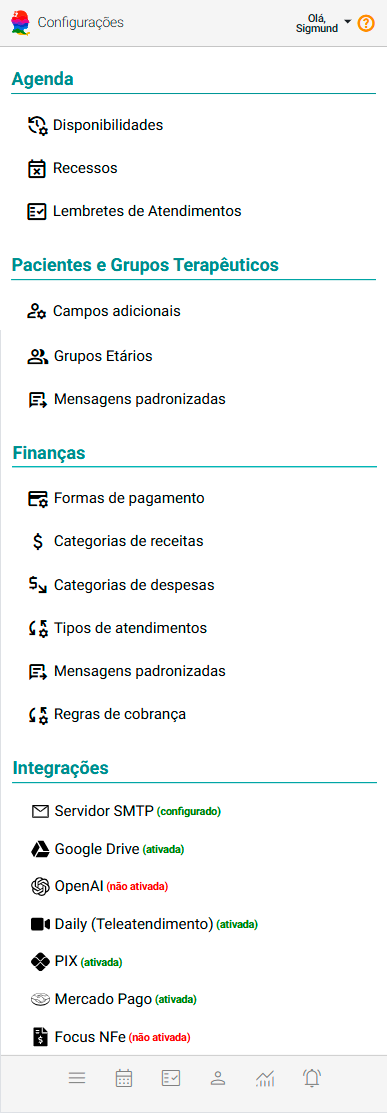
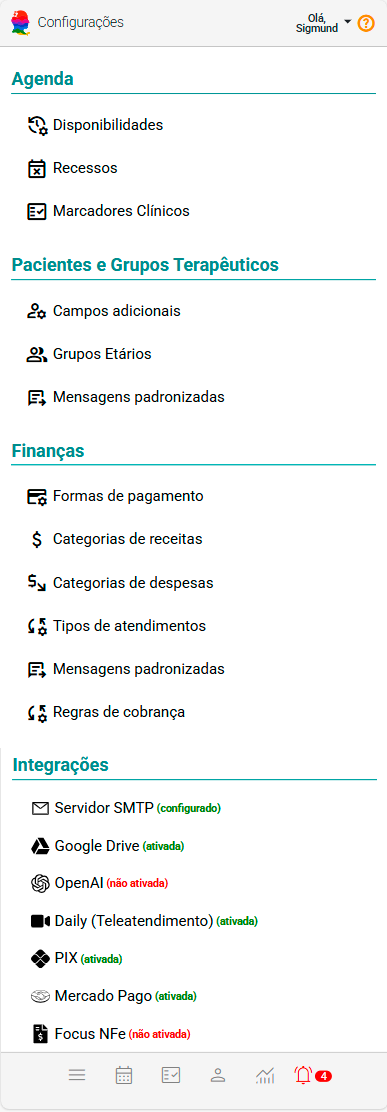
nilson

diff --git a/docs/08_funcionalidades/05-marcadores-clinicos/00-visao.md b/docs/08_funcionalidades/05-marcadores-clinicos/00-visao.md
@@ -4,67 +4,78 @@ sidebar_position: 0
 
 # Sobre Marcadores Clínicos
 
-Os **Marcadores Clínicos** no eConsult são uma ferramenta que apoia o acompanhamento do processo terapêutico ao permitir que o psicólogo **identifique, sinalize e acompanhe temas, focos, eventos e dinâmicas recorrentes** ao longo das sessões.
+Os **Marcadores Clínicos** são uma ferramenta do eConsult que permite ao psicólogo **destacar temas, focos terapêuticos e acontecimentos relevantes** que atravessam os atendimentos ao longo do tempo. Eles ajudam a **organizar a narrativa clínica**, facilitando a visualização de padrões, recorrências e pontos de trabalho que merecem atenção no processo terapêutico.
 
-Diferentemente de simples etiquetas visuais, os Marcadores Clínicos funcionam como **eixos de sentido**, facilitando a leitura longitudinal do caso e contribuindo para uma prática mais consciente, organizada e alinhada às necessidades clínicas do paciente.
-
-![Painel Marcadores Clínicos](../../../static/img/prints/marcadores-clinicos/001.png)
-
-Quando um atendimento recebe um marcador, ele passa a ser agrupado com outros atendimentos que compartilham aquele mesmo tema ou foco clínico. Isso gera uma visão clara do que está atravessando o processo terapêutico, fortalecendo a continuidade do cuidado e evitando que elementos importantes se percam na rotina.
-
-### Por que isso é útil?
-
-- Ajuda a **visualizar temas recorrentes** ao longo do processo terapêutico.
-- Facilita a **preparação para supervisões** e elaboração de relatórios clínicos.
-- Contribui para **organizar o percurso terapêutico** do paciente.
-- Apoia a **memória clínica**, evitando perda de nuances importantes entre sessões.
+Diferente de simples etiquetas, os marcadores funcionam como **eixos de sentido**: eles agrupam atendimentos que compartilham o mesmo foco clínico, tornando possível visualizar a evolução de temas ao longo das sessões.
 
 ---
 
-## Exemplo prático
+## Como funciona
 
-Imagine que, ao longo das sessões, diferentes pacientes tragam questões relacionadas a:
+No cadastro de Atendimentos, você pode **atribuir um ou mais marcadores** a uma sessão, com a opção de **adicionar uma nota** específica daquele marcador para aquele encontro.
 
-**"Luto"**
+Mais tarde, na tela *Marcadores Clínicos*, o eConsult apresenta esses atendimentos **agrupados automaticamente** por marcador.  
+Cada grupo mostra uma lista de atendimentos onde aquele tema esteve presente.
 
-Ao aplicar esse marcador aos atendimentos relevantes, o eConsult irá **agrupar esses atendimentos** automaticamente. Dessa forma, você tem uma visão transversal clara de como esse tema aparece em diferentes processos — ou ao longo do tempo com um mesmo paciente.
-
-![Exemplo de agrupamento](../../../static/img/prints/marcadores-clinicos/002.png)
-
-Essa visualização **auxilia na elaboração de hipóteses clínicas**, compreensão de evolução e tomada de decisão terapêutica.
+> Isso permite **ver o processo terapêutico como continuidade**, e não como encontros isolados.
 
 ---
 
-## *Cards* de Atendimento com Marcadores
+## Estrutura da Tela
 
-Os *cards* de atendimento exibidos nos grupos de Marcadores Clínicos oferecem uma visão objetiva dos dados essenciais da sessão, sem perder de vista o contexto clínico.
+Na tela *Marcadores Clínicos*:
 
-![Cards Marcadores](../../../static/img/prints/marcadores-clinicos/004.png)
+- Cada marcador aparece em um **item expansível**, com sua cor e o **contador de atendimentos** relacionados.
+- Ao abrir um marcador, são exibidos cartões (*cards*) com os atendimentos vinculados.
 
 Cada card apresenta:
 
-- **Data e Horário da Sessão**
-- **Paciente Vinculado**
-- **Status da Sessão** (confirmado, realizado, não realizado etc.)
-- **Valor / Valor Pago** (quando aplicável)
-- **Outros marcadores associados**
+- **Nome do paciente**
+- **Data e horário da sessão**
+- **Status da sessão** (Realizado, Confirmado, etc.)
+- **Modalidade** (Presencial ou Remoto)
+- **Valor corrigido / acordado**
+- **Marcadores associados**
+- **Observação clínica** daquele marcador naquela sessão (quando houver)
 
-Isso permite navegar rapidamente pelos atendimentos com um olhar **clínico e contextualizado**, preservando o fio narrativo do processo.
+Além disso, cada card possui um botão de ação que abre a tela de edição do atendimento, permitindo:
+
+- Revisar anotações
+- Alterar status
+- Remarcar / Desmarcar
+- Registrar pagamentos
+
+Tudo sem sair do painel.
 
 ---
 
-:::tip
-Assim como no painel principal de Atendimentos, o painel de Marcadores Clínicos permite acessar:
+## Por que usar Marcadores Clínicos?
 
-- **Anotações** da sessão  
-- **Arquivos** vinculados  
-- **Marcadores clínicos** configurados  
-- **Informes de presença e pagamentos** (no caso de grupos terapêuticos)  
+Os marcadores ajudam a:
 
-E ainda possibilita ações como **Remarcar, Desmarcar, Excluir, alterar Modalidade e Status**, além de registrar **Recebimentos**, tudo a partir de um único botão:
+| Benefício | Descrição |
+|---------|-----------|
+| **Clareza do Processo** | Facilita perceber temas que se repetem e acompanhar sua evolução. |
+| **Preparação de Supervisão** | Ajuda a reconstruir rapidamente o percurso clínico antes de supervisões. |
+| **Elaboração de Documentos** | Dá suporte para relatórios, pareceres e laudos com mais precisão e profundidade. |
+| **Memória Clínica** | Evita que elementos importantes se percam em meio à rotina. |
 
-![Botão de ações](../../../static/img/prints/buttons/btn_card-edit.png)
-:::
+---
+
+## Recomendação de uso
+
+Embora o sistema permita criar e utilizar muitos marcadores, é recomendado manter **entre 8 e 14** marcadores ativos.  
+Isso ajuda a manter a ferramenta **clínica, organizada e significativa**.
+
+> Ao configurar seus marcadores, revise e **exclua ou desative aqueles que não fazem parte da sua prática**.
+
+---
+
+## Exemplo ilustrativo *(adaptável ao seu print)*
+
+![Marcadores Clínicos](../../../static/img/prints/marcadores-clinicos-configuracao/006.png)
+
+![Marcadores Clínicos](../../../static/img/prints/marcadores-clinicos-configuracao/007.png)
 
 ---
 
@@ -73,7 +84,8 @@ E ainda possibilita ações como **Remarcar, Desmarcar, Excluir, alterar Modalid
 Os **Marcadores Clínicos**:
 
 - Não são apenas etiquetas coloridas.
-- São **ferramentas de leitura clínica**, que apoiam a continuidade, profundidade e coerência do processo terapêutico.
-- Ajudam o psicólogo a **ver o processo como narrativa**, e não como sessões isoladas.
+- São uma **ferramenta estruturante de leitura clínica**.
+- Ajudam a observar o caso como **processo contínuo**, e não como sessões pontuais.
+- Apoiam a tomada de decisão terapêutica com mais consistência e profundidade.
 
-> **Eles ajudam a nomear aquilo que atravessa o processo terapêutico — para que não se perca, para que possa ser trabalhado.**
+> **Eles nomeiam o que atravessa o processo — para que possa ser reconhecido, acompanhado e trabalhado.**

diff --git a/docs/08_funcionalidades/01-configuracoes/01_agenda/03_marcadores-clinicos.md b/docs/08_funcionalidades/01-configuracoes/01_agenda/03_marcadores-clinicos.md
@@ -2,47 +2,111 @@
 sidebar_position: 3
 ---
 
-# Lembretes de Atendimentos
+# Marcadores Clínicos
 
-Os **Lembretes de Atendimentos** funcionam como destaques que você pode atribuir aos seus atendimentos, permitindo agrupar atendimentos em atenção a informações importantes ou momentos significativos em diversos contextos. 
+Os **Marcadores Clínicos** permitem ao psicólogo **destacar atendimentos** com etiquetas coloridas que representam temas, estados emocionais, fases do processo terapêutico ou qualquer outro elemento que você considere clinicamente relevante.
 
-No eConsult, é possível configurar até 6 (seis) tipos de lembretes de atendimentos, cada um identificado por uma cor distinta para facilitar a organização e visualização.
+Eles funcionam como **indicadores visuais** na agenda e ajudam na **análise de evolução** ao longo dos atendimentos.
 
-Lembretes de atendimentos podem ser extremamente úteis para organizar atendimentos, acompanhar o progresso dos seus pacientes e garantir a eficiência na gestão das sessões.
+> **Exemplos de uso:**
+> - Emoções predominantes (ex.: Ansiedade, Raiva, Tristeza)
+> - Temas trabalhados (ex.: Luto, Autoestima, Família)
+> - Etapa terapêutica (ex.: Avaliação, Reestruturação, Fechamento)
+> - Situações importantes (ex.: Crise, Encaminhamento)
 
-## Configurar Lembretes de Atendimentos
+---
 
-1. Acesse o "Painel Configurações" e clique na opção "Lembretes de Atendimentos".
+## Acessando a Tela de Marcadores
 
-    ![Painel Configurações](../../../../static/img/prints/03_lembretes-001.png)
+1. Acesse **Configurações** no menu lateral.
+2. Clique em **Marcadores Clínicos**.
 
-2. Escolha uma cor para o lembrete que você deseja configurar.
+Você verá uma lista de marcadores que podem ser **editados, reordenados ou excluídos**.
 
-    ![Painel Configurações](../../../../static/img/prints/03_lembretes-002.png)
+![Marcadores Clínicos](../../../../static/img/prints/marcadores-clinicos-configuracao/001.png)
 
-3. Logo abaixo da cor selecionada, o sistema exibirá um campo. Insira um rótulo personalizado.
+---
 
-    ![Painel Configurações](../../../../static/img/prints/03_lembretes-003.png)
+## Alterando Marcadores Existentes
 
-4. Se preferir, personalize o rótulo do lembrete com o nome desejado.
+Para cada marcador é possível:
 
-5. Acione o botão ![Painel Configurações](../../../../static/img/prints/buttons/btn_check.png) para salvar a configuração.
+| Ação | Resultado |
+|------|-----------|
+| **Alterar nome** | Adapta o marcador ao seu referencial clínico. |
+| **Alterar cor** | Ajusta a visualização na agenda. |
+| **Reordenar** | Define prioridade visual. |
+| **Excluir** | Remove marcadores que não fazem sentido para sua prática. |
 
-:::note Sugestão de configuração de lembretes de atendimentos
-- **Emitir recibo** - "Para lembrar de gerar o comprovante de pagamento dos atendimentos realizados."
-    - **Cor:** Verde
-- **Preencher prontuário** - "Lembrar de registrar observações clínicas ou notas após a sessão" 
-    - **Cor:** Amarela
-- **Enviar mensagem ao paciente** - "Lembrar de enviar orientação pós-sessão, material de apoio, ou confirmar agendamento futuro." 
-    - **Cor:** Laranja
-- **Agendar próxima sessão** - "Para não esquecer de combinar a continuidade do atendimento com o paciente." 
-    - **Cor:** Vermelho
-- **Atualizar plano terapêutico** - "Revisar objetivos e estratégias com base na evolução do paciente." 
-    - **Cor:** Roxo
-- **Atualizar dados do paciente** - "Lembrar de revisar ou completar informações cadastrais, como endereço, contato, convênio ou dados clínicos relevantes." 
-    - **Cor:** Azul
+---
 
-Com este exemplo, o resultado seria:
+## Criando um Novo Marcador
 
-    ![Painel Configurações](../../../../static/img/prints/03_lembretes-004.png)
+1. Clique em **Incluir novo marcador** ![Marcadores Clínicos](../../../../static/img/prints/buttons/btn_add.png) ou ![Marcadores Clínicos](../../../../static/img/prints/marcadores-clinicos-configuracao/002.png).
+2. O sistema adicionará um item chamado *Novo Marcador*.
+3. Renomeie e selecione a cor desejada.
+4. Clique em **Salvar**.
+
+> Dica: use nomes **curtos e específicos** — leitura mais rápida na agenda.
+
+---
+
+## Restaurando Marcadores Padrão
+
+Caso deseje voltar à configuração inicial do eConsult:
+
+1. Clique em **Restaurar** ![Marcadores Clínicos](../../../../static/img/prints/marcadores-clinicos-configuracao/003.png).
+2. Confirme.
+
+> ⚠ Isto **substitui** sua lista atual pelos marcadores padrão.
+
+---
+
+## Salvando suas Alterações
+
+Após editar, clique em **Salvar** (![Marcadores Clínicos](../../../../static/img/prints/marcadores-clinicos-configuracao/005.png) ou ![Marcadores Clínicos](../../../../static/img/prints/marcadores-clinicos-configuracao/004.png)) para que:
+
+- Os marcadores fiquem disponíveis na agenda
+- Sejam aplicáveis aos atendimentos
+- Apareçam no painel de análise de marcadores
+- Possam ser utilizados ao longo do processo clínico
+
+---
+
+## Boas Práticas Clínicas
+
+- Utilize entre **8 e 14 marcadores** → quantidade ideal para interpretação.
+- Escolha **cores contrastantes** para leitura rápida.
+- Evite marcadores vagos como *"OK"* ou *"Comum"*.
+- Revise sua lista a cada **período terapêutico** (ex.: trimestralmente).
+
+:::note Recomendação
+Apesar de o sistema disponibilizar uma variedade ampla de marcadores, recomenda-se manter entre 8 e 14 em uso. Portanto, ao habilitar os marcadores do sistema, revise e exclua aqueles que não fazem parte da sua prática, mantendo apenas os que realmente utiliza.
 :::
+
+---
+
+## Exemplo de Conjunto Personalizado
+
+| Marcador | Cor | Grupo Clínico |
+|---------|-----|---------------|
+| Ansiedade | Tom quente (vermelho/salmão) | Emoções |
+| Conflitos Familiares | Laranja | Temas Relacionais |
+| Autoimagem | Azul claro | Construção Psicológica |
+| Estabilização | Verde | Processo Terapêutico |
+| Encerramento | Roxo | Etapa Terapêutica |
+
+---
+
+## Aplicação ao Longo do Processo
+
+Ao usar marcadores sessão após sessão, é possível:
+
+- Visualizar **padrões clínicos**
+- Identificar **temas que persistem**
+- Registrar mudanças de foco e evolução
+- Apoiar decisões de **encaminhamento, supervisão e fechamento**
+
+> Os Marcadores Clínicos **não são avaliativos** — são **narrativos**, expressam percepção terapêutica contextualizada.
+
+---

diff --git a/docs/08_funcionalidades/01-configuracoes/00_visao-configuracoes.md b/docs/08_funcionalidades/01-configuracoes/00_visao-configuracoes.md
@@ -20,7 +20,7 @@ O objetivo aqui é configurar e personalizar a agenda para otimizar o planejamen
 
 - **Disponibilidades:** Configure os dias e horários em que você estará disponível para atendimentos, incluindo intervalos entre sessões/atendimentos.
 - **Recessos:** Defina períodos de pausa, férias ou feriados nos quais sua agenda ficará bloqueada para agendamentos.
-- **Marcadores Clínicos:** Configure agrupamentos de atendimentos com base em ações pendentes, como emissão de recibos ou preenchimento de prontuários, para não esquecer de realizá-las.
+- **Marcadores Clínicos:** selecione aspectos importantes do processo terapêutico para acompanhar mudanças, reconhecer padrões e sustentar intervenções consistentes ao longo da jornada clínica.
 
 ## Pacientes e Grupos Terapêuticos
 
